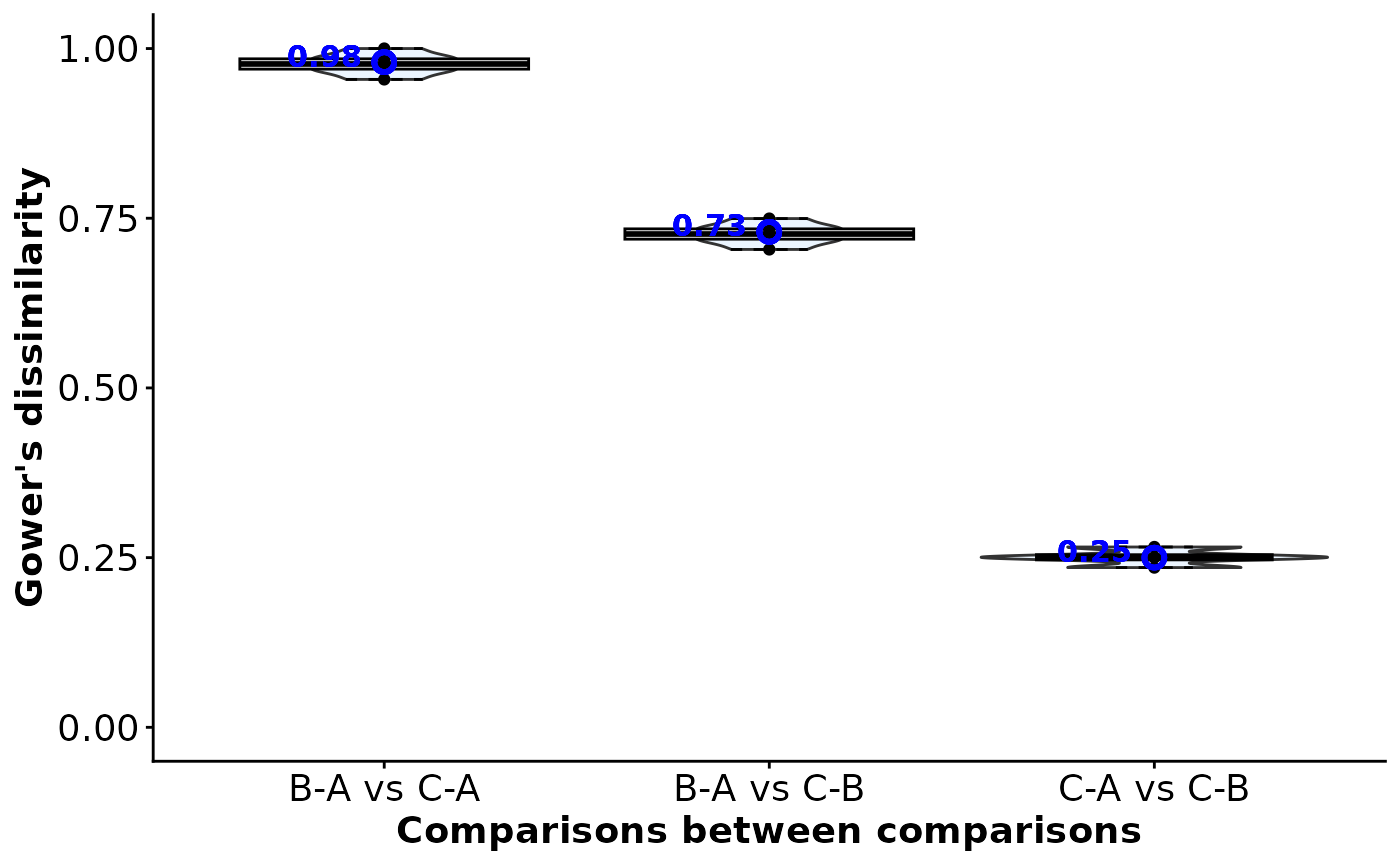
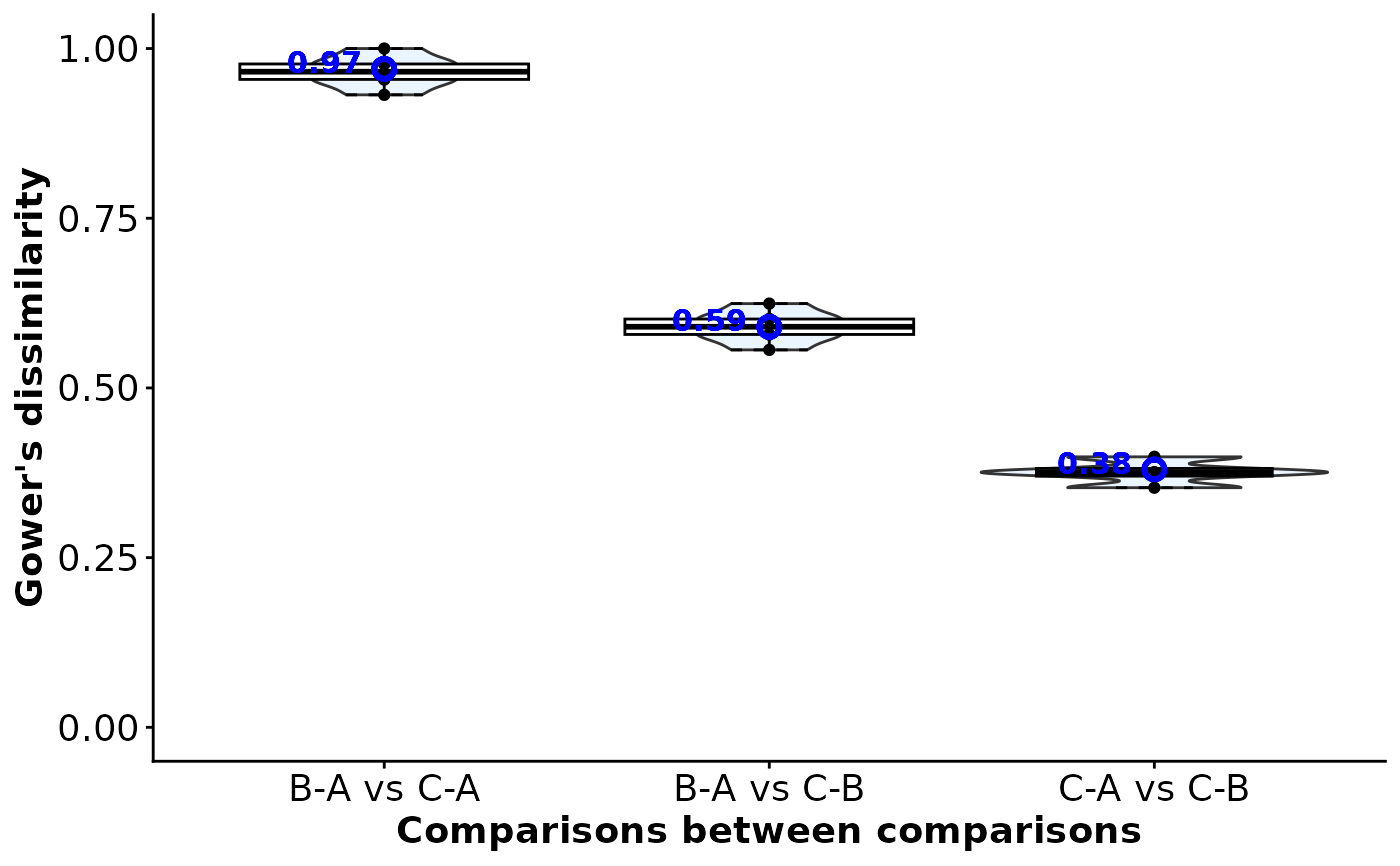
Deploying to gh-pages from @ LoukiaSpin/rnmamod@3c7bea9974ab050e09108e42a193941eb595ac9e 🚀

diff --git a/reference/gower_distance.html b/reference/gower_distance.html
@@ -139,19 +139,20 @@ doi: 10.1002/sim.70068.</p>
 <span class="r-in"><span>                      comp <span class="op">=</span> <span class="fu"><a href="https://rdrr.io/r/base/c.html" class="external-link">c</a></span><span class="op">(</span><span class="st">"1vs2"</span>, <span class="st">"1vs2"</span>, <span class="st">"1vs2"</span>, <span class="st">"1vs3"</span>, <span class="st">"1vs3"</span>, <span class="st">"2vs3"</span>, <span class="st">"2vs3"</span><span class="op">)</span>,</span></span>
 <span class="r-in"><span>                      sample <span class="op">=</span> <span class="fu"><a href="https://rdrr.io/r/base/c.html" class="external-link">c</a></span><span class="op">(</span><span class="fl">140</span>, <span class="fl">145</span>, <span class="fl">150</span>, <span class="fl">40</span>, <span class="fl">45</span>, <span class="fl">75</span>, <span class="fl">80</span><span class="op">)</span>,</span></span>
 <span class="r-in"><span>                      age <span class="op">=</span> <span class="fu"><a href="https://rdrr.io/r/base/c.html" class="external-link">c</a></span><span class="op">(</span><span class="fl">18</span>, <span class="fl">18</span>, <span class="fl">18</span>, <span class="fl">48</span>, <span class="fl">48</span>, <span class="fl">35</span>, <span class="fl">35</span><span class="op">)</span>,</span></span>
-<span class="r-in"><span>                      blinding <span class="op">=</span> <span class="fu"><a href="https://rdrr.io/r/base/factor.html" class="external-link">factor</a></span><span class="op">(</span><span class="fu"><a href="https://rdrr.io/r/base/c.html" class="external-link">c</a></span><span class="op">(</span><span class="st">"yes"</span>, <span class="st">"yes"</span>, <span class="st">"yes"</span>, <span class="st">"no"</span>, <span class="st">"no"</span>, <span class="st">"no"</span>, <span class="st">"no"</span><span class="op">)</span><span class="op">)</span><span class="op">)</span></span></span>
+<span class="r-in"><span>                      blinding <span class="op">=</span> <span class="fu"><a href="https://rdrr.io/r/base/integer.html" class="external-link">as.integer</a></span><span class="op">(</span><span class="fu"><a href="https://rdrr.io/r/base/c.html" class="external-link">c</a></span><span class="op">(</span><span class="st">"yes"</span>, <span class="st">"yes"</span>, <span class="st">"yes"</span>, <span class="st">"no"</span>, <span class="st">"no"</span>, <span class="st">"no"</span>, <span class="st">"no"</span><span class="op">)</span><span class="op">)</span><span class="op">)</span></span></span>
+<span class="r-wrn co"><span class="r-pr">#&gt;</span> <span class="warning">Warning: </span>NAs introduced by coercion</span>
 <span class="r-in"><span></span></span>
 <span class="r-in"><span><span class="co"># Calculate the weighted Gower dissimilarity of all study pairs in the network</span></span></span>
 <span class="r-in"><span><span class="fu">gower_distance</span><span class="op">(</span>input <span class="op">=</span> <span class="va">data_set</span><span class="op">)</span></span></span>
 <span class="r-out co"><span class="r-pr">#&gt;</span> $Dissimilarity_table</span>
 <span class="r-out co"><span class="r-pr">#&gt;</span>            [,1]       [,2]      [,3]       [,4]      [,5]       [,6] [,7]</span>
 <span class="r-out co"><span class="r-pr">#&gt;</span> [1,] 0.00000000         NA        NA         NA        NA         NA   NA</span>
-<span class="r-out co"><span class="r-pr">#&gt;</span> [2,] 0.01515152 0.00000000        NA         NA        NA         NA   NA</span>
-<span class="r-out co"><span class="r-pr">#&gt;</span> [3,] 0.03030303 0.01515152 0.0000000         NA        NA         NA   NA</span>
-<span class="r-out co"><span class="r-pr">#&gt;</span> [4,] 0.96969697 0.98484848 1.0000000 0.00000000        NA         NA   NA</span>
-<span class="r-out co"><span class="r-pr">#&gt;</span> [5,] 0.95454545 0.96969697 0.9848485 0.01515152 0.0000000         NA   NA</span>
-<span class="r-out co"><span class="r-pr">#&gt;</span> [6,] 0.71919192 0.73434343 0.7494949 0.25050505 0.2353535 0.00000000   NA</span>
-<span class="r-out co"><span class="r-pr">#&gt;</span> [7,] 0.70404040 0.71919192 0.7343434 0.26565657 0.2505051 0.01515152    0</span>
+<span class="r-out co"><span class="r-pr">#&gt;</span> [2,] 0.02272727 0.00000000        NA         NA        NA         NA   NA</span>
+<span class="r-out co"><span class="r-pr">#&gt;</span> [3,] 0.04545455 0.02272727 0.0000000         NA        NA         NA   NA</span>
+<span class="r-out co"><span class="r-pr">#&gt;</span> [4,] 0.95454545 0.97727273 1.0000000 0.00000000        NA         NA   NA</span>
+<span class="r-out co"><span class="r-pr">#&gt;</span> [5,] 0.93181818 0.95454545 0.9772727 0.02272727 0.0000000         NA   NA</span>
+<span class="r-out co"><span class="r-pr">#&gt;</span> [6,] 0.57878788 0.60151515 0.6242424 0.37575758 0.3530303 0.00000000   NA</span>
+<span class="r-out co"><span class="r-pr">#&gt;</span> [7,] 0.55606061 0.57878788 0.6015152 0.39848485 0.3757576 0.02272727    0</span>
 <span class="r-out co"><span class="r-pr">#&gt;</span> </span>
 <span class="r-out co"><span class="r-pr">#&gt;</span> $Types_used</span>
 <span class="r-out co"><span class="r-pr">#&gt;</span>   characteristic    type</span>
@@ -160,31 +161,31 @@ doi: 10.1002/sim.70068.</p>
 <span class="r-out co"><span class="r-pr">#&gt;</span> 3       blinding integer</span>
 <span class="r-out co"><span class="r-pr">#&gt;</span> </span>
 <span class="r-out co"><span class="r-pr">#&gt;</span> $Total_missing</span>
-<span class="r-out co"><span class="r-pr">#&gt;</span> [1] "0%"</span>
+<span class="r-out co"><span class="r-pr">#&gt;</span> [1] "33.33%"</span>
 <span class="r-out co"><span class="r-pr">#&gt;</span> </span>
 <span class="r-out co"><span class="r-pr">#&gt;</span> $Variable_dissimilarities</span>
 <span class="r-out co"><span class="r-pr">#&gt;</span>           [,1]      [,2] [,3]</span>
-<span class="r-out co"><span class="r-pr">#&gt;</span> 1-2 0.04545455 0.0000000    0</span>
-<span class="r-out co"><span class="r-pr">#&gt;</span> 1-3 0.09090909 0.0000000    0</span>
-<span class="r-out co"><span class="r-pr">#&gt;</span> 1-4 0.90909091 1.0000000    1</span>
-<span class="r-out co"><span class="r-pr">#&gt;</span> 1-5 0.86363636 1.0000000    1</span>
-<span class="r-out co"><span class="r-pr">#&gt;</span> 1-6 0.59090909 0.5666667    1</span>
-<span class="r-out co"><span class="r-pr">#&gt;</span> 1-7 0.54545455 0.5666667    1</span>
-<span class="r-out co"><span class="r-pr">#&gt;</span> 2-3 0.04545455 0.0000000    0</span>
-<span class="r-out co"><span class="r-pr">#&gt;</span> 2-4 0.95454545 1.0000000    1</span>
-<span class="r-out co"><span class="r-pr">#&gt;</span> 2-5 0.90909091 1.0000000    1</span>
-<span class="r-out co"><span class="r-pr">#&gt;</span> 2-6 0.63636364 0.5666667    1</span>
-<span class="r-out co"><span class="r-pr">#&gt;</span> 2-7 0.59090909 0.5666667    1</span>
-<span class="r-out co"><span class="r-pr">#&gt;</span> 3-4 1.00000000 1.0000000    1</span>
-<span class="r-out co"><span class="r-pr">#&gt;</span> 3-5 0.95454545 1.0000000    1</span>
-<span class="r-out co"><span class="r-pr">#&gt;</span> 3-6 0.68181818 0.5666667    1</span>
-<span class="r-out co"><span class="r-pr">#&gt;</span> 3-7 0.63636364 0.5666667    1</span>
-<span class="r-out co"><span class="r-pr">#&gt;</span> 4-5 0.04545455 0.0000000    0</span>
-<span class="r-out co"><span class="r-pr">#&gt;</span> 4-6 0.31818182 0.4333333    0</span>
-<span class="r-out co"><span class="r-pr">#&gt;</span> 4-7 0.36363636 0.4333333    0</span>
-<span class="r-out co"><span class="r-pr">#&gt;</span> 5-6 0.27272727 0.4333333    0</span>
-<span class="r-out co"><span class="r-pr">#&gt;</span> 5-7 0.31818182 0.4333333    0</span>
-<span class="r-out co"><span class="r-pr">#&gt;</span> 6-7 0.04545455 0.0000000    0</span>
+<span class="r-out co"><span class="r-pr">#&gt;</span> 1-2 0.04545455 0.0000000   NA</span>
+<span class="r-out co"><span class="r-pr">#&gt;</span> 1-3 0.09090909 0.0000000   NA</span>
+<span class="r-out co"><span class="r-pr">#&gt;</span> 1-4 0.90909091 1.0000000   NA</span>
+<span class="r-out co"><span class="r-pr">#&gt;</span> 1-5 0.86363636 1.0000000   NA</span>
+<span class="r-out co"><span class="r-pr">#&gt;</span> 1-6 0.59090909 0.5666667   NA</span>
+<span class="r-out co"><span class="r-pr">#&gt;</span> 1-7 0.54545455 0.5666667   NA</span>
+<span class="r-out co"><span class="r-pr">#&gt;</span> 2-3 0.04545455 0.0000000   NA</span>
+<span class="r-out co"><span class="r-pr">#&gt;</span> 2-4 0.95454545 1.0000000   NA</span>
+<span class="r-out co"><span class="r-pr">#&gt;</span> 2-5 0.90909091 1.0000000   NA</span>
+<span class="r-out co"><span class="r-pr">#&gt;</span> 2-6 0.63636364 0.5666667   NA</span>
+<span class="r-out co"><span class="r-pr">#&gt;</span> 2-7 0.59090909 0.5666667   NA</span>
+<span class="r-out co"><span class="r-pr">#&gt;</span> 3-4 1.00000000 1.0000000   NA</span>
+<span class="r-out co"><span class="r-pr">#&gt;</span> 3-5 0.95454545 1.0000000   NA</span>
+<span class="r-out co"><span class="r-pr">#&gt;</span> 3-6 0.68181818 0.5666667   NA</span>
+<span class="r-out co"><span class="r-pr">#&gt;</span> 3-7 0.63636364 0.5666667   NA</span>
+<span class="r-out co"><span class="r-pr">#&gt;</span> 4-5 0.04545455 0.0000000   NA</span>
+<span class="r-out co"><span class="r-pr">#&gt;</span> 4-6 0.31818182 0.4333333   NA</span>
+<span class="r-out co"><span class="r-pr">#&gt;</span> 4-7 0.36363636 0.4333333   NA</span>
+<span class="r-out co"><span class="r-pr">#&gt;</span> 5-6 0.27272727 0.4333333   NA</span>
+<span class="r-out co"><span class="r-pr">#&gt;</span> 5-7 0.31818182 0.4333333   NA</span>
+<span class="r-out co"><span class="r-pr">#&gt;</span> 6-7 0.04545455 0.0000000   NA</span>
 <span class="r-out co"><span class="r-pr">#&gt;</span> </span>
 <span class="r-in"><span></span></span>
 </code></pre></div>

diff --git a/reference/comp_clustering.html b/reference/comp_clustering.html
@@ -375,7 +375,8 @@ doi: 10.1002/sim.70068.</p>
 <span class="r-in"><span>                      arm2 <span class="op">=</span> <span class="fu"><a href="https://rdrr.io/r/base/c.html" class="external-link">c</a></span><span class="op">(</span><span class="st">"2"</span>, <span class="st">"2"</span>, <span class="st">"2"</span>, <span class="st">"3"</span>, <span class="st">"3"</span>, <span class="st">"3"</span>, <span class="st">"3"</span><span class="op">)</span>,</span></span>
 <span class="r-in"><span>                      sample <span class="op">=</span> <span class="fu"><a href="https://rdrr.io/r/base/c.html" class="external-link">c</a></span><span class="op">(</span><span class="fl">140</span>, <span class="fl">145</span>, <span class="fl">150</span>, <span class="fl">40</span>, <span class="fl">45</span>, <span class="fl">75</span>, <span class="fl">80</span><span class="op">)</span>,</span></span>
 <span class="r-in"><span>                      age <span class="op">=</span> <span class="fu"><a href="https://rdrr.io/r/base/c.html" class="external-link">c</a></span><span class="op">(</span><span class="fl">18</span>, <span class="fl">18</span>, <span class="fl">18</span>, <span class="fl">48</span>, <span class="fl">48</span>, <span class="fl">35</span>, <span class="fl">35</span><span class="op">)</span>,</span></span>
-<span class="r-in"><span>                      blinding <span class="op">=</span> <span class="fu"><a href="https://rdrr.io/r/base/factor.html" class="external-link">factor</a></span><span class="op">(</span><span class="fu"><a href="https://rdrr.io/r/base/c.html" class="external-link">c</a></span><span class="op">(</span><span class="st">"yes"</span>, <span class="st">"yes"</span>, <span class="st">"yes"</span>, <span class="st">"no"</span>, <span class="st">"no"</span>, <span class="st">"no"</span>, <span class="st">"no"</span><span class="op">)</span><span class="op">)</span><span class="op">)</span></span></span>
+<span class="r-in"><span>                      blinding <span class="op">=</span> <span class="fu"><a href="https://rdrr.io/r/base/integer.html" class="external-link">as.integer</a></span><span class="op">(</span><span class="fu"><a href="https://rdrr.io/r/base/c.html" class="external-link">c</a></span><span class="op">(</span><span class="st">"yes"</span>, <span class="st">"yes"</span>, <span class="st">"yes"</span>, <span class="st">"no"</span>, <span class="st">"no"</span>, <span class="st">"no"</span>, <span class="st">"no"</span><span class="op">)</span><span class="op">)</span><span class="op">)</span></span></span>
+<span class="r-wrn co"><span class="r-pr">#&gt;</span> <span class="warning">Warning: </span>NAs introduced by coercion</span>
 <span class="r-in"><span></span></span>
 <span class="r-in"><span><span class="co"># Obtain comparison dissimilarities (informative = TRUE)</span></span></span>
 <span class="r-in"><span><span class="fu">comp_clustering</span><span class="op">(</span>input <span class="op">=</span> <span class="va">data_set</span>,</span></span>
@@ -384,31 +385,32 @@ doi: 10.1002/sim.70068.</p>
 <span class="r-in"><span>                informative <span class="op">=</span> <span class="cn">TRUE</span>,</span></span>
 <span class="r-in"><span>                get_plots <span class="op">=</span> <span class="cn">TRUE</span><span class="op">)</span></span></span>
 <span class="r-msg co"><span class="r-pr">#&gt;</span> - 3 observed comparisons (0 single-study comparisons)</span>
-<span class="r-msg co"><span class="r-pr">#&gt;</span> - Dropped characteristics: none</span>
+<span class="r-msg co"><span class="r-pr">#&gt;</span> - Dropped characteristics: blinding</span>
+<span class="r-wrn co"><span class="r-pr">#&gt;</span> <span class="warning">Warning: </span>data length [63] is not a sub-multiple or multiple of the number of columns [2]</span>
 <span class="r-out co"><span class="r-pr">#&gt;</span> $Trials_diss_table</span>
 <span class="r-out co"><span class="r-pr">#&gt;</span>       1 B-A 2 B-A 3 B-A 4 C-A 5 C-A 6 C-B 7 C-B</span>
 <span class="r-out co"><span class="r-pr">#&gt;</span> 1 B-A 0.000    NA    NA    NA    NA    NA    NA</span>
-<span class="r-out co"><span class="r-pr">#&gt;</span> 2 B-A 0.015 0.000    NA    NA    NA    NA    NA</span>
-<span class="r-out co"><span class="r-pr">#&gt;</span> 3 B-A 0.030 0.015 0.000    NA    NA    NA    NA</span>
-<span class="r-out co"><span class="r-pr">#&gt;</span> 4 C-A 0.970 0.985 1.000 0.000    NA    NA    NA</span>
-<span class="r-out co"><span class="r-pr">#&gt;</span> 5 C-A 0.955 0.970 0.985 0.015 0.000    NA    NA</span>
-<span class="r-out co"><span class="r-pr">#&gt;</span> 6 C-B 0.719 0.734 0.749 0.251 0.235 0.000    NA</span>
-<span class="r-out co"><span class="r-pr">#&gt;</span> 7 C-B 0.704 0.719 0.734 0.266 0.251 0.015     0</span>
+<span class="r-out co"><span class="r-pr">#&gt;</span> 2 B-A 0.023 0.000    NA    NA    NA    NA    NA</span>
+<span class="r-out co"><span class="r-pr">#&gt;</span> 3 B-A 0.045 0.023 0.000    NA    NA    NA    NA</span>
+<span class="r-out co"><span class="r-pr">#&gt;</span> 4 C-A 0.955 0.977 1.000 0.000    NA    NA    NA</span>
+<span class="r-out co"><span class="r-pr">#&gt;</span> 5 C-A 0.932 0.955 0.977 0.023 0.000    NA    NA</span>
+<span class="r-out co"><span class="r-pr">#&gt;</span> 6 C-B 0.579 0.602 0.624 0.376 0.353 0.000    NA</span>
+<span class="r-out co"><span class="r-pr">#&gt;</span> 7 C-B 0.556 0.579 0.602 0.398 0.376 0.023     0</span>
 <span class="r-out co"><span class="r-pr">#&gt;</span> </span>
 <span class="r-out co"><span class="r-pr">#&gt;</span> $Comparisons_diss_table</span>
 <span class="r-out co"><span class="r-pr">#&gt;</span>      B-A  C-A  C-B</span>
-<span class="r-out co"><span class="r-pr">#&gt;</span> B-A 0.02   NA   NA</span>
-<span class="r-out co"><span class="r-pr">#&gt;</span> C-A 0.98 0.02   NA</span>
-<span class="r-out co"><span class="r-pr">#&gt;</span> C-B 0.73 0.25 0.02</span>
+<span class="r-out co"><span class="r-pr">#&gt;</span> B-A 0.03   NA   NA</span>
+<span class="r-out co"><span class="r-pr">#&gt;</span> C-A 0.97 0.02   NA</span>
+<span class="r-out co"><span class="r-pr">#&gt;</span> C-B 0.59 0.38 0.02</span>
 <span class="r-out co"><span class="r-pr">#&gt;</span> </span>
 <span class="r-out co"><span class="r-pr">#&gt;</span> $Total_dissimilarity</span>
 <span class="r-out co"><span class="r-pr">#&gt;</span>   comparison total_dissimilarity         index_type</span>
-<span class="r-out co"><span class="r-pr">#&gt;</span> 5 C-A vs C-B                0.25 Between-comparison</span>
-<span class="r-out co"><span class="r-pr">#&gt;</span> 3 B-A vs C-B                0.73 Between-comparison</span>
-<span class="r-out co"><span class="r-pr">#&gt;</span> 2 B-A vs C-A                0.98 Between-comparison</span>
-<span class="r-out co"><span class="r-pr">#&gt;</span> 1        B-A                0.02  Within-comparison</span>
+<span class="r-out co"><span class="r-pr">#&gt;</span> 5 C-A vs C-B                0.38 Between-comparison</span>
+<span class="r-out co"><span class="r-pr">#&gt;</span> 3 B-A vs C-B                0.59 Between-comparison</span>
+<span class="r-out co"><span class="r-pr">#&gt;</span> 2 B-A vs C-A                0.97 Between-comparison</span>
 <span class="r-out co"><span class="r-pr">#&gt;</span> 4        C-A                0.02  Within-comparison</span>
 <span class="r-out co"><span class="r-pr">#&gt;</span> 6        C-B                0.02  Within-comparison</span>
+<span class="r-out co"><span class="r-pr">#&gt;</span> 1        B-A                0.03  Within-comparison</span>
 <span class="r-out co"><span class="r-pr">#&gt;</span> </span>
 <span class="r-out co"><span class="r-pr">#&gt;</span> $Types_used</span>
 <span class="r-out co"><span class="r-pr">#&gt;</span>   characteristic    type</span>
@@ -417,7 +419,7 @@ doi: 10.1002/sim.70068.</p>
 <span class="r-out co"><span class="r-pr">#&gt;</span> 3       blinding integer</span>
 <span class="r-out co"><span class="r-pr">#&gt;</span> </span>
 <span class="r-out co"><span class="r-pr">#&gt;</span> $Total_missing</span>
-<span class="r-out co"><span class="r-pr">#&gt;</span> [1] "0%"</span>
+<span class="r-out co"><span class="r-pr">#&gt;</span> [1] "33.33%"</span>
 <span class="r-out co"><span class="r-pr">#&gt;</span> </span>
 <span class="r-out co"><span class="r-pr">#&gt;</span> $Within_comparison_dissimilarity</span>
 <span class="r-plt img"><img src="comp_clustering-1.png" alt="" width="700" height="433"></span>

diff --git a/reference/run_ume.html b/reference/run_ume.html
@@ -429,7 +429,7 @@ doi: 10.1186/s12874-019-0731-y</p>
 <span class="r-out co"><span class="r-pr">#&gt;</span> [1] "2vs1" "3vs1" "4vs1" "5vs1" "4vs2" "6vs2" "4vs3" "5vs4"</span>
 <span class="r-out co"><span class="r-pr">#&gt;</span> </span>
 <span class="r-out co"><span class="r-pr">#&gt;</span> $jagsfit</span>
-<span class="r-out co"><span class="r-pr">#&gt;</span> Inference for Bugs model at "14", fit using jags,</span>
+<span class="r-out co"><span class="r-pr">#&gt;</span> Inference for Bugs model at "22", fit using jags,</span>
 <span class="r-out co"><span class="r-pr">#&gt;</span>  3 chains, each with 1000 iterations (first 0 discarded)</span>
 <span class="r-out co"><span class="r-pr">#&gt;</span>  n.sims = 3000 iterations saved. Running time = secs</span>
 <span class="r-out co"><span class="r-pr">#&gt;</span>               mu.vect sd.vect   2.5%    25%    50%    75%  97.5%  Rhat n.eff</span>

diff --git a/reference/gower_distance.md b/reference/gower_distance.md
@@ -90,19 +90,20 @@ data_set <- data.frame(Trial_name = as.character(1:7),
                       comp = c("1vs2", "1vs2", "1vs2", "1vs3", "1vs3", "2vs3", "2vs3"),
                       sample = c(140, 145, 150, 40, 45, 75, 80),
                       age = c(18, 18, 18, 48, 48, 35, 35),
-                      blinding = factor(c("yes", "yes", "yes", "no", "no", "no", "no")))
+                      blinding = as.integer(c("yes", "yes", "yes", "no", "no", "no", "no")))
+#> Warning: NAs introduced by coercion
 
 # Calculate the weighted Gower dissimilarity of all study pairs in the network
 gower_distance(input = data_set)
 #> $Dissimilarity_table
 #>            [,1]       [,2]      [,3]       [,4]      [,5]       [,6] [,7]
 #> [1,] 0.00000000         NA        NA         NA        NA         NA   NA
-#> [2,] 0.01515152 0.00000000        NA         NA        NA         NA   NA
-#> [3,] 0.03030303 0.01515152 0.0000000         NA        NA         NA   NA
-#> [4,] 0.96969697 0.98484848 1.0000000 0.00000000        NA         NA   NA
-#> [5,] 0.95454545 0.96969697 0.9848485 0.01515152 0.0000000         NA   NA
-#> [6,] 0.71919192 0.73434343 0.7494949 0.25050505 0.2353535 0.00000000   NA
-#> [7,] 0.70404040 0.71919192 0.7343434 0.26565657 0.2505051 0.01515152    0
+#> [2,] 0.02272727 0.00000000        NA         NA        NA         NA   NA
+#> [3,] 0.04545455 0.02272727 0.0000000         NA        NA         NA   NA
+#> [4,] 0.95454545 0.97727273 1.0000000 0.00000000        NA         NA   NA
+#> [5,] 0.93181818 0.95454545 0.9772727 0.02272727 0.0000000         NA   NA
+#> [6,] 0.57878788 0.60151515 0.6242424 0.37575758 0.3530303 0.00000000   NA
+#> [7,] 0.55606061 0.57878788 0.6015152 0.39848485 0.3757576 0.02272727    0
 #> 
 #> $Types_used
 #>   characteristic    type
@@ -111,30 +112,30 @@ gower_distance(input = data_set)
 #> 3       blinding integer
 #> 
 #> $Total_missing
-#> [1] "0%"
+#> [1] "33.33%"
 #> 
 #> $Variable_dissimilarities
 #>           [,1]      [,2] [,3]
-#> 1-2 0.04545455 0.0000000    0
-#> 1-3 0.09090909 0.0000000    0
-#> 1-4 0.90909091 1.0000000    1
-#> 1-5 0.86363636 1.0000000    1
-#> 1-6 0.59090909 0.5666667    1
-#> 1-7 0.54545455 0.5666667    1
-#> 2-3 0.04545455 0.0000000    0
-#> 2-4 0.95454545 1.0000000    1
-#> 2-5 0.90909091 1.0000000    1
-#> 2-6 0.63636364 0.5666667    1
-#> 2-7 0.59090909 0.5666667    1
-#> 3-4 1.00000000 1.0000000    1
-#> 3-5 0.95454545 1.0000000    1
-#> 3-6 0.68181818 0.5666667    1
-#> 3-7 0.63636364 0.5666667    1
-#> 4-5 0.04545455 0.0000000    0
-#> 4-6 0.31818182 0.4333333    0
-#> 4-7 0.36363636 0.4333333    0
-#> 5-6 0.27272727 0.4333333    0
-#> 5-7 0.31818182 0.4333333    0
-#> 6-7 0.04545455 0.0000000    0
+#> 1-2 0.04545455 0.0000000   NA
+#> 1-3 0.09090909 0.0000000   NA
+#> 1-4 0.90909091 1.0000000   NA
+#> 1-5 0.86363636 1.0000000   NA
+#> 1-6 0.59090909 0.5666667   NA
+#> 1-7 0.54545455 0.5666667   NA
+#> 2-3 0.04545455 0.0000000   NA
+#> 2-4 0.95454545 1.0000000   NA
+#> 2-5 0.90909091 1.0000000   NA
+#> 2-6 0.63636364 0.5666667   NA
+#> 2-7 0.59090909 0.5666667   NA
+#> 3-4 1.00000000 1.0000000   NA
+#> 3-5 0.95454545 1.0000000   NA
+#> 3-6 0.68181818 0.5666667   NA
+#> 3-7 0.63636364 0.5666667   NA
+#> 4-5 0.04545455 0.0000000   NA
+#> 4-6 0.31818182 0.4333333   NA
+#> 4-7 0.36363636 0.4333333   NA
+#> 5-6 0.27272727 0.4333333   NA
+#> 5-7 0.31818182 0.4333333   NA
+#> 6-7 0.04545455 0.0000000   NA
 #> 
 ```

diff --git a/reference/comp_clustering.md b/reference/comp_clustering.md
@@ -338,7 +338,8 @@ data_set <- data.frame(Trial_name = as.character(1:7),
                       arm2 = c("2", "2", "2", "3", "3", "3", "3"),
                       sample = c(140, 145, 150, 40, 45, 75, 80),
                       age = c(18, 18, 18, 48, 48, 35, 35),
-                      blinding = factor(c("yes", "yes", "yes", "no", "no", "no", "no")))
+                      blinding = as.integer(c("yes", "yes", "yes", "no", "no", "no", "no")))
+#> Warning: NAs introduced by coercion
 
 # Obtain comparison dissimilarities (informative = TRUE)
 comp_clustering(input = data_set,
@@ -347,31 +348,32 @@ comp_clustering(input = data_set,
                 informative = TRUE,
                 get_plots = TRUE)
 #> - 3 observed comparisons (0 single-study comparisons)
-#> - Dropped characteristics: none
+#> - Dropped characteristics: blinding
+#> Warning: data length [63] is not a sub-multiple or multiple of the number of columns [2]
 #> $Trials_diss_table
 #>       1 B-A 2 B-A 3 B-A 4 C-A 5 C-A 6 C-B 7 C-B
 #> 1 B-A 0.000    NA    NA    NA    NA    NA    NA
-#> 2 B-A 0.015 0.000    NA    NA    NA    NA    NA
-#> 3 B-A 0.030 0.015 0.000    NA    NA    NA    NA
-#> 4 C-A 0.970 0.985 1.000 0.000    NA    NA    NA
-#> 5 C-A 0.955 0.970 0.985 0.015 0.000    NA    NA
-#> 6 C-B 0.719 0.734 0.749 0.251 0.235 0.000    NA
-#> 7 C-B 0.704 0.719 0.734 0.266 0.251 0.015     0
+#> 2 B-A 0.023 0.000    NA    NA    NA    NA    NA
+#> 3 B-A 0.045 0.023 0.000    NA    NA    NA    NA
+#> 4 C-A 0.955 0.977 1.000 0.000    NA    NA    NA
+#> 5 C-A 0.932 0.955 0.977 0.023 0.000    NA    NA
+#> 6 C-B 0.579 0.602 0.624 0.376 0.353 0.000    NA
+#> 7 C-B 0.556 0.579 0.602 0.398 0.376 0.023     0
 #> 
 #> $Comparisons_diss_table
 #>      B-A  C-A  C-B
-#> B-A 0.02   NA   NA
-#> C-A 0.98 0.02   NA
-#> C-B 0.73 0.25 0.02
+#> B-A 0.03   NA   NA
+#> C-A 0.97 0.02   NA
+#> C-B 0.59 0.38 0.02
 #> 
 #> $Total_dissimilarity
 #>   comparison total_dissimilarity         index_type
-#> 5 C-A vs C-B                0.25 Between-comparison
-#> 3 B-A vs C-B                0.73 Between-comparison
-#> 2 B-A vs C-A                0.98 Between-comparison
-#> 1        B-A                0.02  Within-comparison
+#> 5 C-A vs C-B                0.38 Between-comparison
+#> 3 B-A vs C-B                0.59 Between-comparison
+#> 2 B-A vs C-A                0.97 Between-comparison
 #> 4        C-A                0.02  Within-comparison
 #> 6        C-B                0.02  Within-comparison
+#> 1        B-A                0.03  Within-comparison
 #> 
 #> $Types_used
 #>   characteristic    type
@@ -380,7 +382,7 @@ comp_clustering(input = data_set,
 #> 3       blinding integer
 #> 
 #> $Total_missing
-#> [1] "0%"
+#> [1] "33.33%"
 #> 
 #> $Within_comparison_dissimilarity
 

diff --git a/reference/run_ume.md b/reference/run_ume.md
@@ -421,7 +421,7 @@ run_ume(full = res,
 #> [1] "2vs1" "3vs1" "4vs1" "5vs1" "4vs2" "6vs2" "4vs3" "5vs4"
 #> 
 #> $jagsfit
-#> Inference for Bugs model at "14", fit using jags,
+#> Inference for Bugs model at "22", fit using jags,
 #>  3 chains, each with 1000 iterations (first 0 discarded)
 #>  n.sims = 3000 iterations saved. Running time = secs
 #>               mu.vect sd.vect   2.5%    25%    50%    75%  97.5%  Rhat n.eff